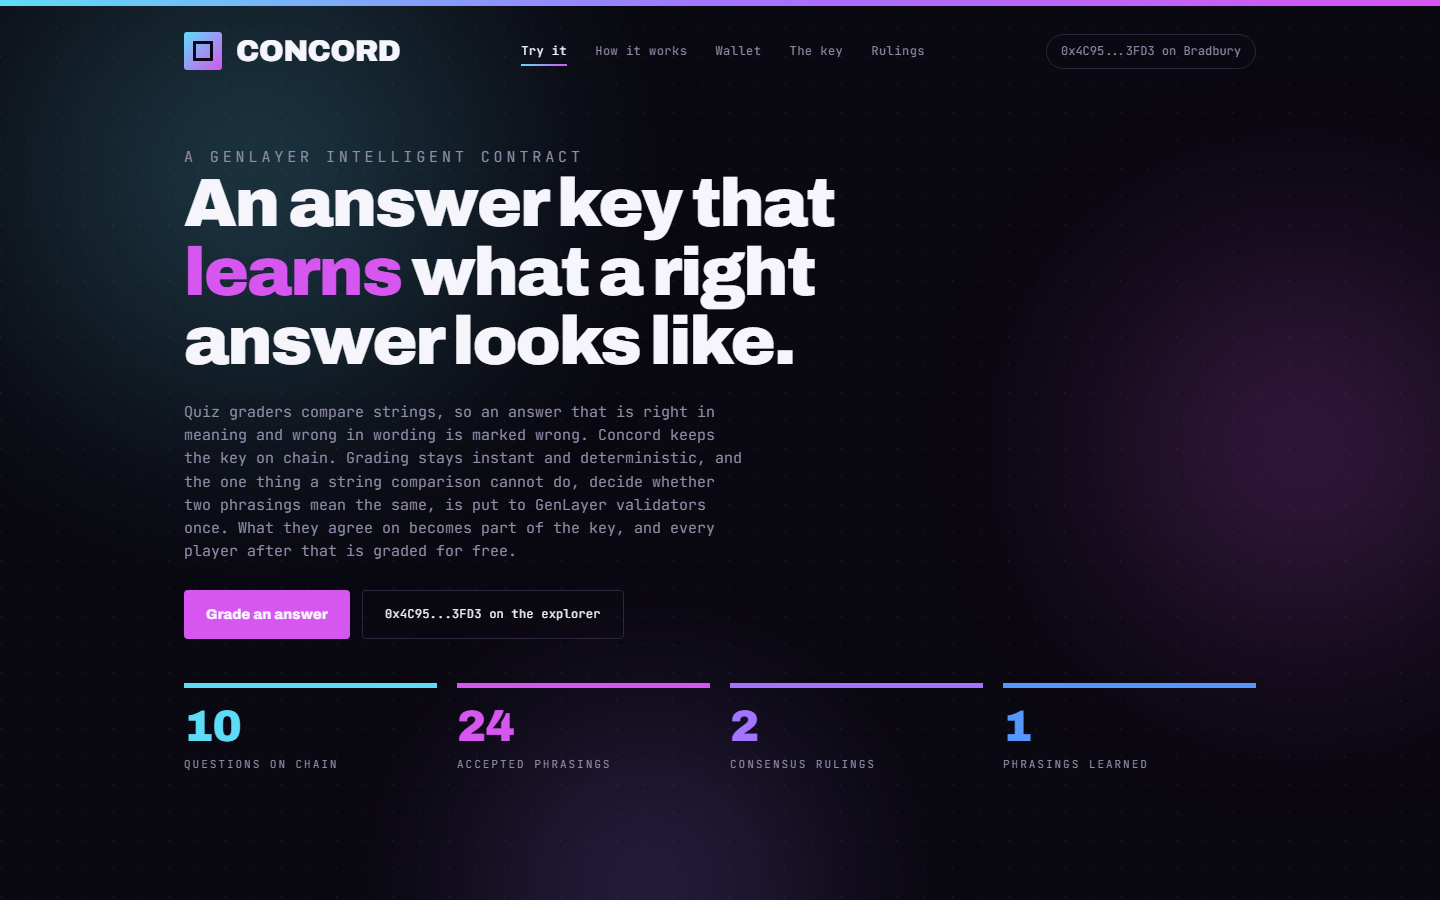
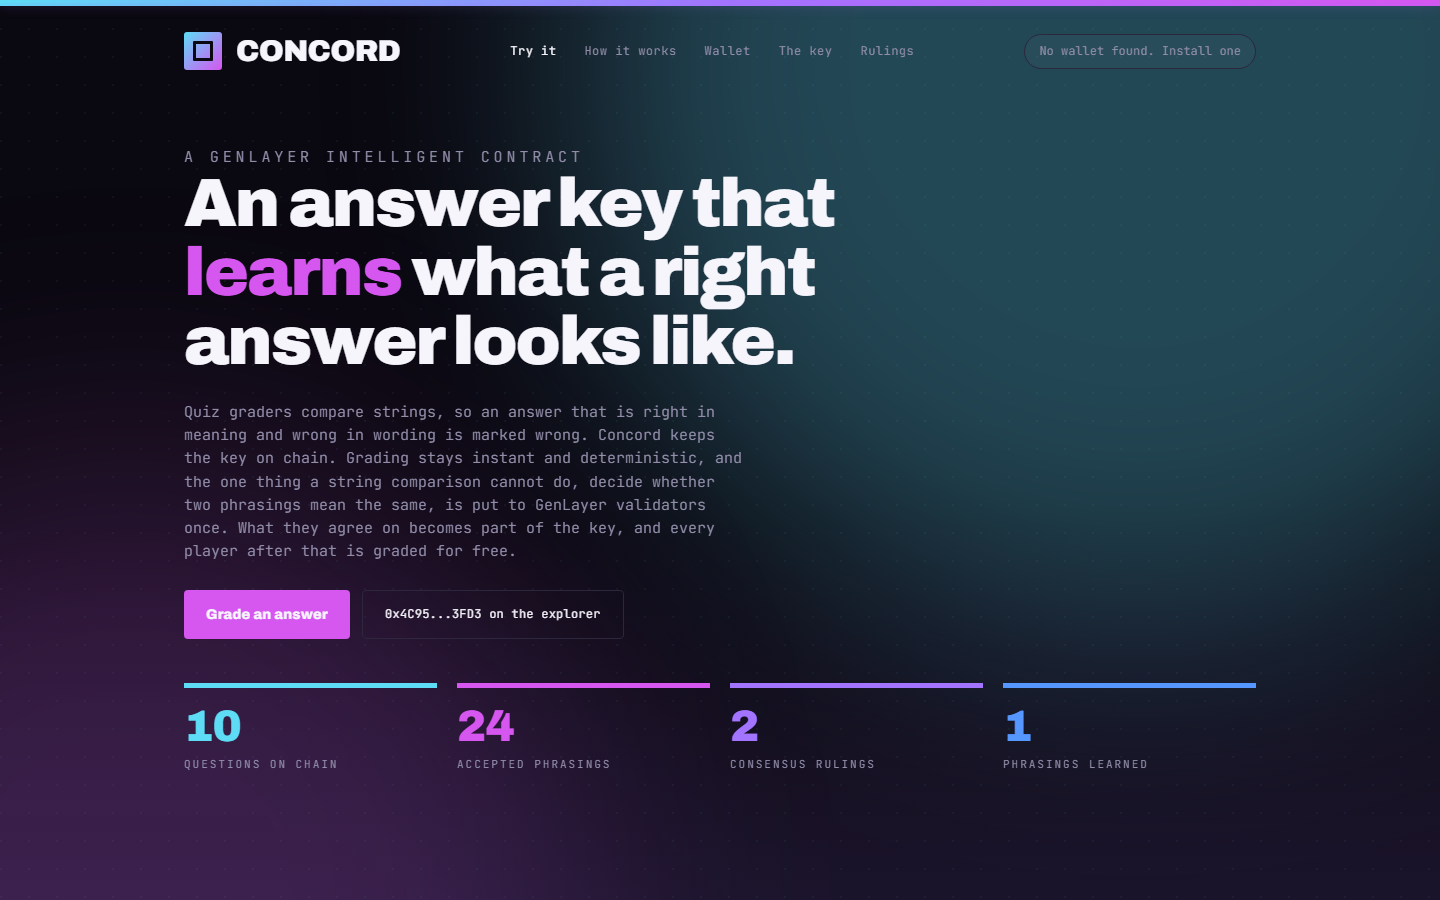
Point the docs at the Vercel deployment and refresh the preview

diff --git a/README.md b/README.md
@@ -2,7 +2,7 @@
 
 **A quiz answer key held on chain, that learns what a right answer looks like.**
 
-Live app: **https://0xyuura.github.io/concord/** (also on Vercel, see below)
+Live app: **https://concord-phi.vercel.app** and **https://0xyuura.github.io/concord/**
 Intelligent Contract: [`0x4C95B77f8D6CF7F3EC412aAaB6EFed5b92343FD3`](https://explorer-bradbury.genlayer.com/address/0x4C95B77f8D6CF7F3EC412aAaB6EFed5b92343FD3) on GenLayer Testnet Bradbury
 
 ![Concord reading the answer key from Bradbury](preview.png)
